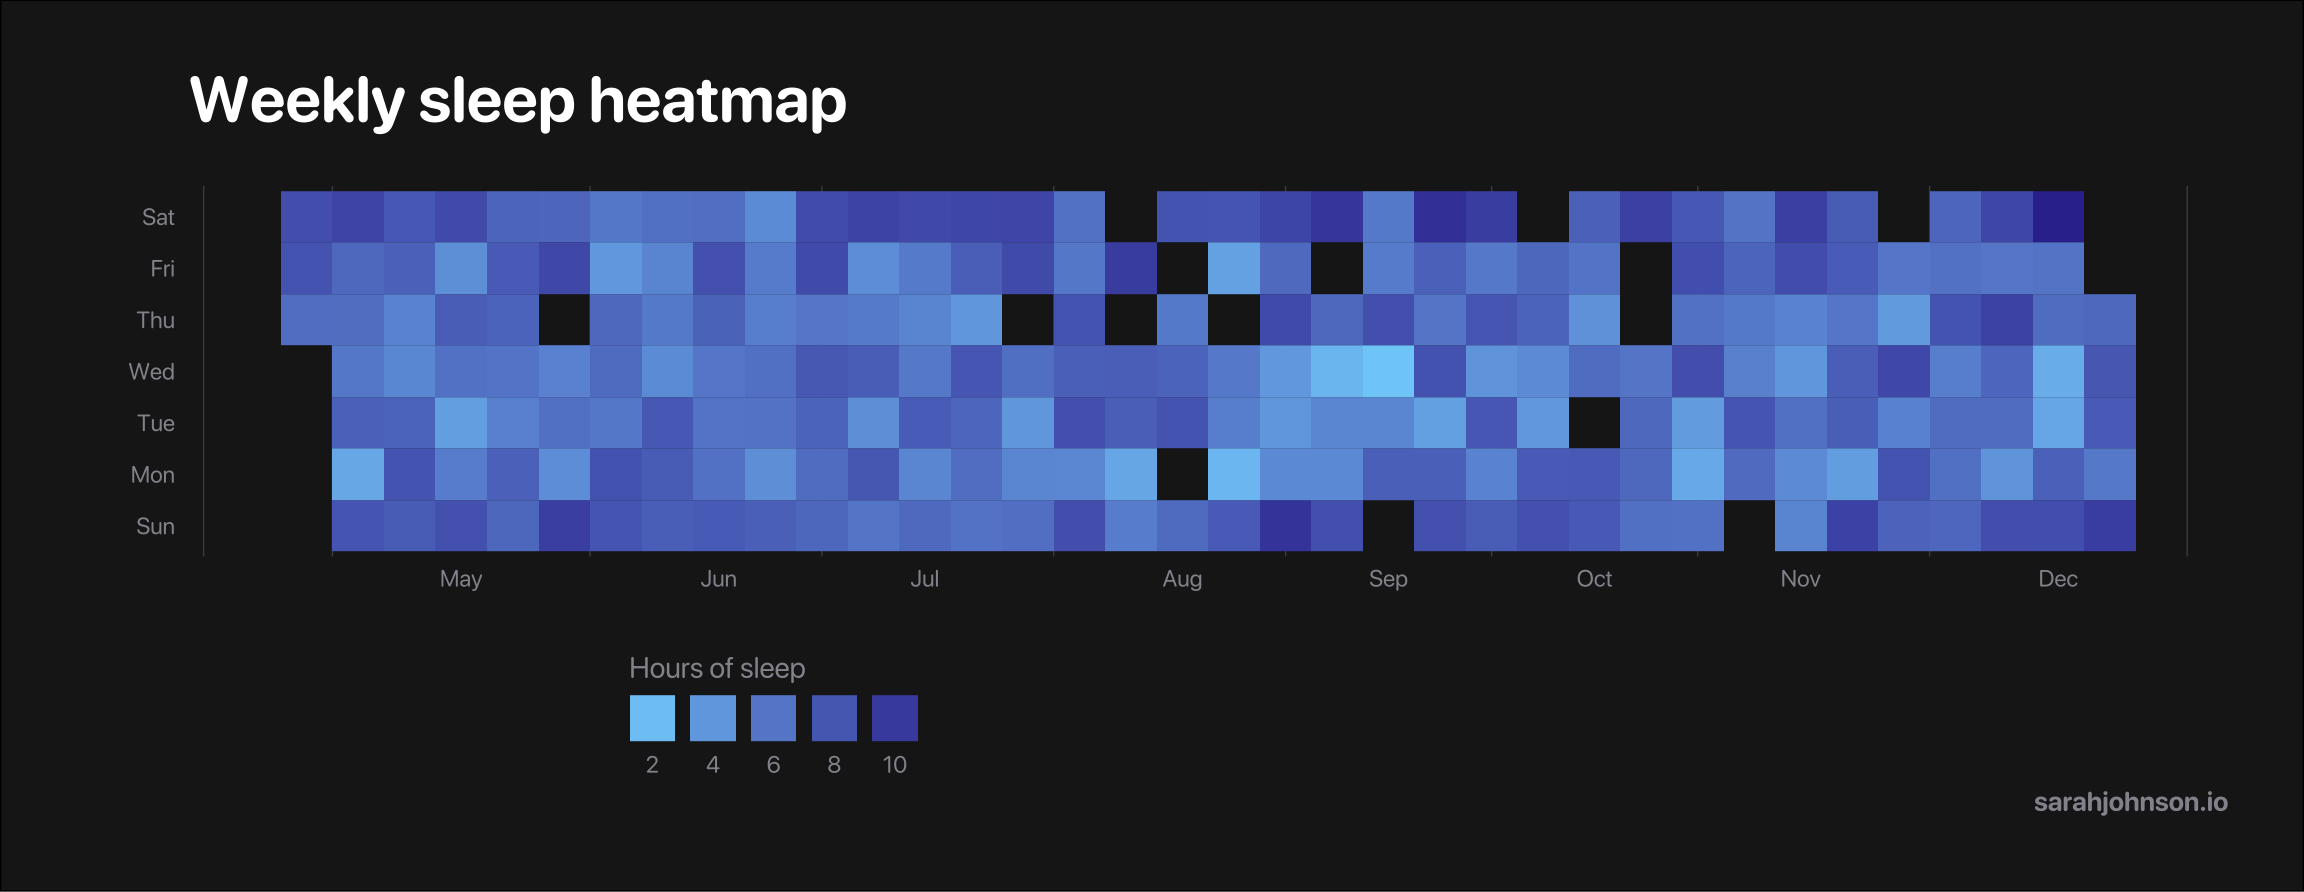
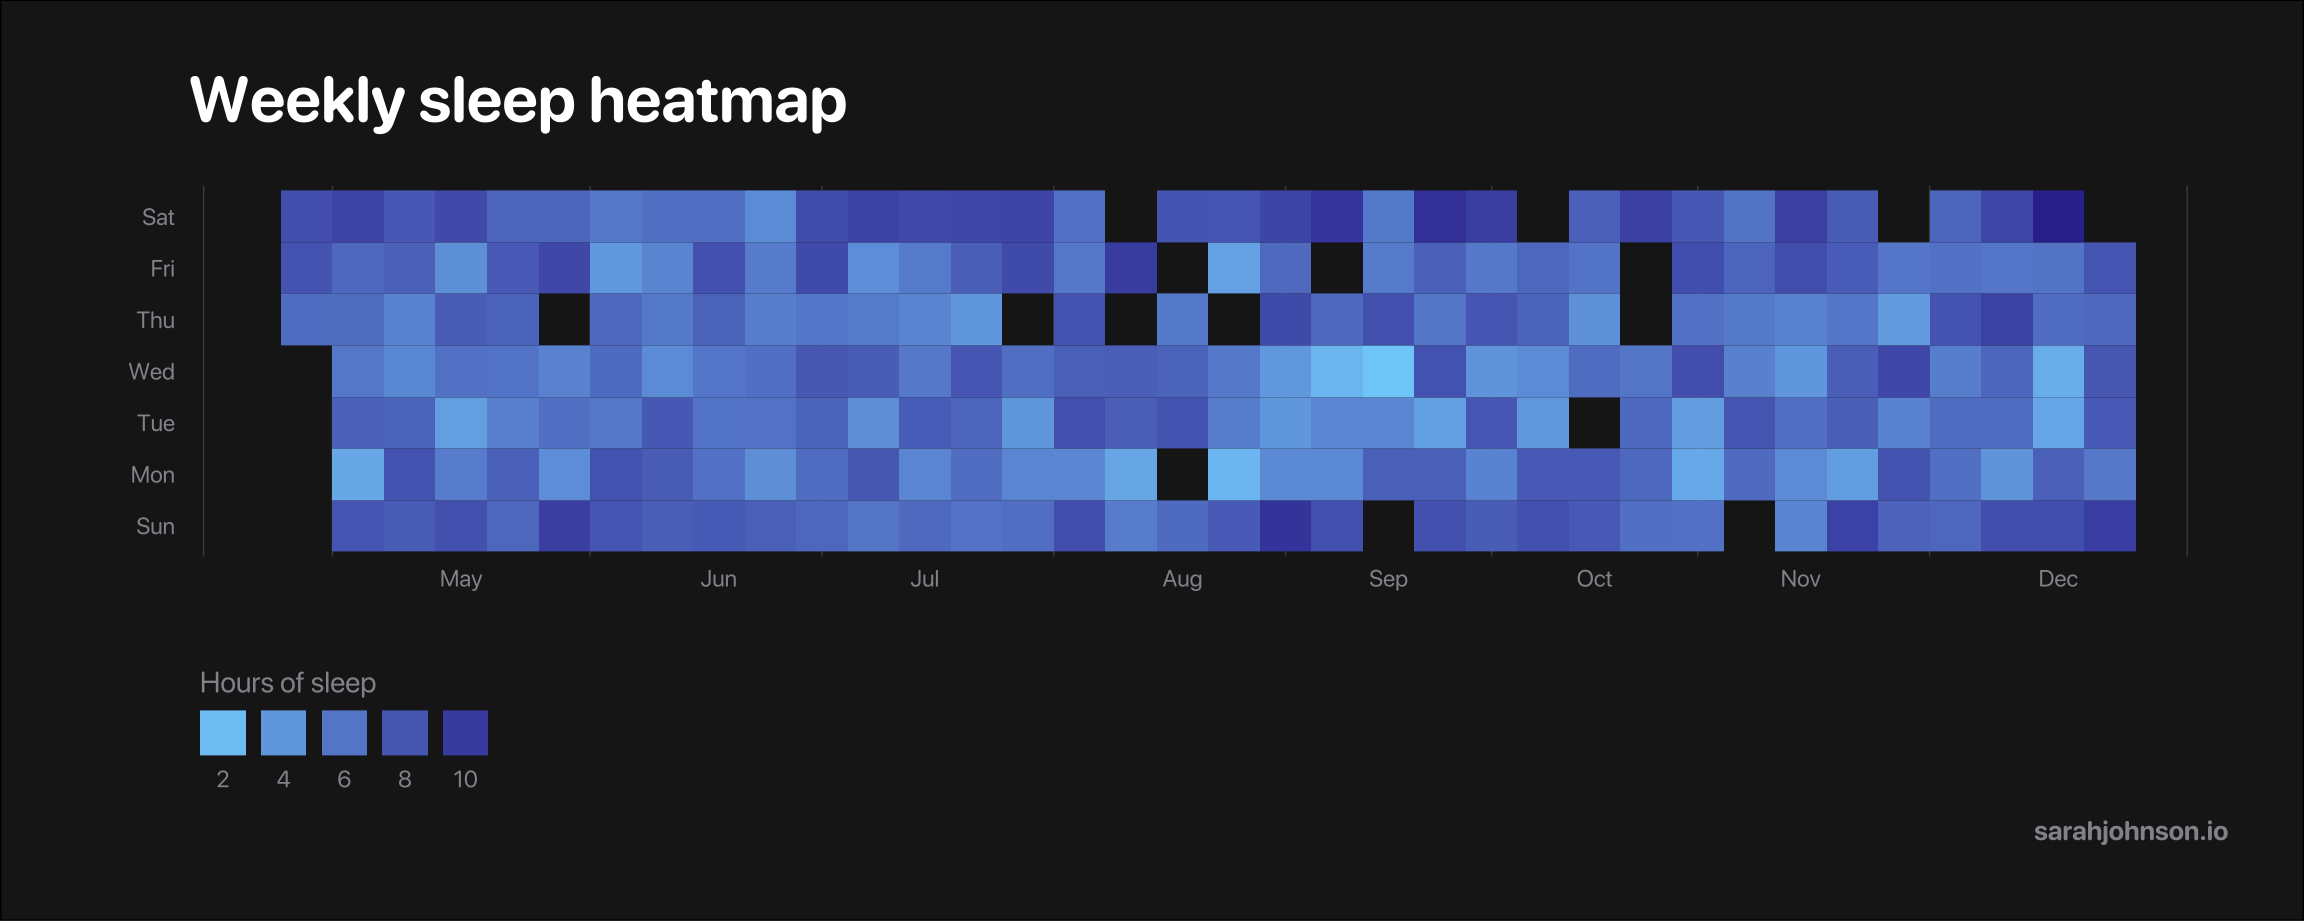
updated data. attempted to use non-watch data but needs more graph adjustments to display clearly.

diff --git a/_site/other/apple-sleep-data.html b/_site/other/apple-sleep-data.html
@@ -229,6 +229,12 @@ pre > code.sourceCode > span > a:first-child::before { text-decoration: underlin
     </div>
   </div>
   
+    <div>
+    <div class="quarto-title-meta-heading">Modified</div>
+    <div class="quarto-title-meta-contents">
+      <p class="date-modified">December 15, 2023</p>
+    </div>
+  </div>
     
   </div>
   
@@ -349,14 +355,14 @@ pre > code.sourceCode > span > a:first-child::before { text-decoration: underlin
 </section>
 <section id="analyze-your-sleep-data" class="level1 page-columns page-full">
 <h1>Analyze your sleep data</h1>
-<p>To access the data again, just use <code>read_parquet()</code>. I also want to filter to only use my watch data.</p>
+<p>To access the data again, just use <code>read_parquet()</code>.</p>
 <div class="cell">
 <div class="sourceCode cell-code" id="cb9"><pre class="sourceCode r code-with-copy"><code class="sourceCode r"><span id="cb9-1"><a href="#cb9-1" aria-hidden="true" tabindex="-1"></a>sleep_data <span class="ot">&lt;-</span> <span class="fu">read_parquet</span>(<span class="fu">paste0</span>(path, <span class="st">"health/sleep.parquet"</span>)) <span class="sc">|&gt;</span> </span>
 <span id="cb9-2"><a href="#cb9-2" aria-hidden="true" tabindex="-1"></a>  <span class="fu">filter</span>(<span class="fu">str_detect</span>(sourceName, <span class="st">"Watch"</span>))</span>
 <span id="cb9-3"><a href="#cb9-3" aria-hidden="true" tabindex="-1"></a></span>
 <span id="cb9-4"><a href="#cb9-4" aria-hidden="true" tabindex="-1"></a><span class="fu">glimpse</span>(sleep_data)</span></code><button title="Copy to Clipboard" class="code-copy-button"><i class="bi"></i></button></pre></div>
 <div class="cell-output cell-output-stdout">
-<pre><code>Rows: 8,833
+<pre><code>Rows: 8,877
 Columns: 6
 $ sourceName    &lt;chr&gt; "Sarah’s Apple&nbsp;Watch", "Sarah’s Apple&nbsp;Watch", "Sarah’s A…
 $ sourceVersion &lt;chr&gt; "9.3.1", "9.3.1", "9.3.1", "9.3.1", "9.3.1", "9.3.1", "9…
@@ -376,29 +382,37 @@ $ value         &lt;chr&gt; "AsleepCore", "InBed", "Awake", "AsleepCore", "Aslee
 <span id="cb11-5"><a href="#cb11-5" aria-hidden="true" tabindex="-1"></a>  <span class="fu">select</span>(<span class="sc">-</span><span class="fu">starts_with</span>(<span class="st">"source"</span>))</span></code><button title="Copy to Clipboard" class="code-copy-button"><i class="bi"></i></button></pre></div>
 </div>
 <p>I also changed the <strong>creationDate</strong> to remove the time for easier future use.</p>
-<p>I’ll be using the following theming options for my plots.</p>
+<p>Click below to see theme options for my plots.</p>
 <div class="cell">
+<details class="code-fold">
+<summary>Code</summary>
 <div class="sourceCode cell-code" id="cb12"><pre class="sourceCode r code-with-copy"><code class="sourceCode r"><span id="cb12-1"><a href="#cb12-1" aria-hidden="true" tabindex="-1"></a><span class="fu">library</span>(ggrounded)</span>
 <span id="cb12-2"><a href="#cb12-2" aria-hidden="true" tabindex="-1"></a></span>
-<span id="cb12-3"><a href="#cb12-3" aria-hidden="true" tabindex="-1"></a>sleep_colors <span class="ot">&lt;-</span> <span class="fu">c</span>(</span>
-<span id="cb12-4"><a href="#cb12-4" aria-hidden="true" tabindex="-1"></a>  <span class="st">"REM"</span> <span class="ot">=</span> <span class="st">"#80CFF9"</span>,</span>
-<span id="cb12-5"><a href="#cb12-5" aria-hidden="true" tabindex="-1"></a>  <span class="st">"Core"</span> <span class="ot">=</span> <span class="st">"#3A81F6"</span>,</span>
-<span id="cb12-6"><a href="#cb12-6" aria-hidden="true" tabindex="-1"></a>  <span class="st">"Deep"</span> <span class="ot">=</span> <span class="st">"#35339C"</span>,</span>
-<span id="cb12-7"><a href="#cb12-7" aria-hidden="true" tabindex="-1"></a>  <span class="st">"Unspecified"</span> <span class="ot">=</span> <span class="st">"#87E3E0"</span></span>
-<span id="cb12-8"><a href="#cb12-8" aria-hidden="true" tabindex="-1"></a>)</span>
-<span id="cb12-9"><a href="#cb12-9" aria-hidden="true" tabindex="-1"></a></span>
-<span id="cb12-10"><a href="#cb12-10" aria-hidden="true" tabindex="-1"></a>sleep_theme <span class="ot">&lt;-</span> <span class="fu">theme</span>(</span>
-<span id="cb12-11"><a href="#cb12-11" aria-hidden="true" tabindex="-1"></a>    <span class="at">plot.margin =</span> <span class="fu">margin</span>(<span class="fl">1.5</span>, <span class="dv">1</span>, <span class="dv">1</span>, <span class="fl">1.25</span>, <span class="st">"cm"</span>),</span>
-<span id="cb12-12"><a href="#cb12-12" aria-hidden="true" tabindex="-1"></a>    <span class="at">plot.background =</span> <span class="fu">element_rect</span>(<span class="at">fill =</span> <span class="st">"#1C1B1D"</span>),</span>
-<span id="cb12-13"><a href="#cb12-13" aria-hidden="true" tabindex="-1"></a>    <span class="at">panel.grid =</span> <span class="fu">element_line</span>(<span class="at">color =</span> <span class="st">"#4B4A4C"</span>),</span>
-<span id="cb12-14"><a href="#cb12-14" aria-hidden="true" tabindex="-1"></a>    <span class="at">text =</span> <span class="fu">element_text</span>(<span class="at">colour =</span> <span class="st">"#94949B"</span>, <span class="at">family =</span> <span class="st">"SF Pro Rounded"</span>),</span>
-<span id="cb12-15"><a href="#cb12-15" aria-hidden="true" tabindex="-1"></a>    <span class="at">axis.title.y =</span> <span class="fu">element_text</span>(<span class="at">vjust =</span> <span class="dv">5</span>),</span>
-<span id="cb12-16"><a href="#cb12-16" aria-hidden="true" tabindex="-1"></a>    <span class="at">axis.text =</span> <span class="fu">element_text</span>(<span class="at">color =</span> <span class="st">"#94949B"</span>),</span>
-<span id="cb12-17"><a href="#cb12-17" aria-hidden="true" tabindex="-1"></a>    <span class="at">plot.title =</span> <span class="fu">element_text</span>(<span class="at">colour =</span> <span class="st">"white"</span>, <span class="at">vjust =</span> <span class="dv">4</span>, <span class="at">size =</span> <span class="dv">24</span>, <span class="at">face =</span> <span class="st">"bold"</span>),</span>
-<span id="cb12-18"><a href="#cb12-18" aria-hidden="true" tabindex="-1"></a>    <span class="at">plot.caption =</span> <span class="fu">element_text</span>(<span class="at">face =</span> <span class="st">"bold"</span>, <span class="at">size =</span> <span class="dv">10</span>)</span>
-<span id="cb12-19"><a href="#cb12-19" aria-hidden="true" tabindex="-1"></a>  )</span></code><button title="Copy to Clipboard" class="code-copy-button"><i class="bi"></i></button></pre></div>
+<span id="cb12-3"><a href="#cb12-3" aria-hidden="true" tabindex="-1"></a><span class="fu">library</span>(showtext)</span>
+<span id="cb12-4"><a href="#cb12-4" aria-hidden="true" tabindex="-1"></a><span class="fu">font_add</span>(<span class="at">family =</span> <span class="st">"SF Pro"</span>, <span class="at">regular =</span> <span class="st">"SF-Pro.ttf"</span>, <span class="at">bold =</span> <span class="st">"SF-Pro.ttf"</span>)</span>
+<span id="cb12-5"><a href="#cb12-5" aria-hidden="true" tabindex="-1"></a><span class="fu">font_add</span>(<span class="at">family =</span> <span class="st">"SF Pro Rounded"</span>, <span class="at">regular =</span> <span class="st">"SF-Pro-Rounded-Regular.otf"</span>, <span class="at">bold =</span> <span class="st">"SF-Pro-Rounded-Bold.otf"</span>)</span>
+<span id="cb12-6"><a href="#cb12-6" aria-hidden="true" tabindex="-1"></a><span class="fu">showtext_auto</span>()</span>
+<span id="cb12-7"><a href="#cb12-7" aria-hidden="true" tabindex="-1"></a></span>
+<span id="cb12-8"><a href="#cb12-8" aria-hidden="true" tabindex="-1"></a>sleep_colors <span class="ot">&lt;-</span> <span class="fu">c</span>(</span>
+<span id="cb12-9"><a href="#cb12-9" aria-hidden="true" tabindex="-1"></a>  <span class="st">"REM"</span> <span class="ot">=</span> <span class="st">"#80CFF9"</span>,</span>
+<span id="cb12-10"><a href="#cb12-10" aria-hidden="true" tabindex="-1"></a>  <span class="st">"Core"</span> <span class="ot">=</span> <span class="st">"#3A81F6"</span>,</span>
+<span id="cb12-11"><a href="#cb12-11" aria-hidden="true" tabindex="-1"></a>  <span class="st">"Deep"</span> <span class="ot">=</span> <span class="st">"#35339C"</span>,</span>
+<span id="cb12-12"><a href="#cb12-12" aria-hidden="true" tabindex="-1"></a>  <span class="st">"Unspecified"</span> <span class="ot">=</span> <span class="st">"#87E3E0"</span></span>
+<span id="cb12-13"><a href="#cb12-13" aria-hidden="true" tabindex="-1"></a>)</span>
+<span id="cb12-14"><a href="#cb12-14" aria-hidden="true" tabindex="-1"></a><span class="co"># colors from Apple Health app</span></span>
+<span id="cb12-15"><a href="#cb12-15" aria-hidden="true" tabindex="-1"></a></span>
+<span id="cb12-16"><a href="#cb12-16" aria-hidden="true" tabindex="-1"></a>sleep_theme <span class="ot">&lt;-</span> <span class="fu">theme</span>(</span>
+<span id="cb12-17"><a href="#cb12-17" aria-hidden="true" tabindex="-1"></a>    <span class="at">plot.margin =</span> <span class="fu">margin</span>(<span class="fl">1.5</span>, <span class="dv">1</span>, <span class="dv">1</span>, <span class="fl">1.25</span>, <span class="st">"cm"</span>),</span>
+<span id="cb12-18"><a href="#cb12-18" aria-hidden="true" tabindex="-1"></a>    <span class="at">plot.background =</span> <span class="fu">element_rect</span>(<span class="at">fill =</span> <span class="st">"#1C1B1D"</span>),</span>
+<span id="cb12-19"><a href="#cb12-19" aria-hidden="true" tabindex="-1"></a>    <span class="at">panel.grid =</span> <span class="fu">element_line</span>(<span class="at">color =</span> <span class="st">"#4B4A4C"</span>),</span>
+<span id="cb12-20"><a href="#cb12-20" aria-hidden="true" tabindex="-1"></a>    <span class="at">text =</span> <span class="fu">element_text</span>(<span class="at">colour =</span> <span class="st">"#94949B"</span>, <span class="at">family =</span> <span class="st">"SF Pro Rounded"</span>),</span>
+<span id="cb12-21"><a href="#cb12-21" aria-hidden="true" tabindex="-1"></a>    <span class="at">axis.title.y =</span> <span class="fu">element_text</span>(<span class="at">vjust =</span> <span class="dv">5</span>),</span>
+<span id="cb12-22"><a href="#cb12-22" aria-hidden="true" tabindex="-1"></a>    <span class="at">axis.text =</span> <span class="fu">element_text</span>(<span class="at">color =</span> <span class="st">"#94949B"</span>),</span>
+<span id="cb12-23"><a href="#cb12-23" aria-hidden="true" tabindex="-1"></a>    <span class="at">plot.title =</span> <span class="fu">element_text</span>(<span class="at">colour =</span> <span class="st">"white"</span>, <span class="at">vjust =</span> <span class="dv">4</span>, <span class="at">size =</span> <span class="dv">24</span>, <span class="at">face =</span> <span class="st">"bold"</span>),</span>
+<span id="cb12-24"><a href="#cb12-24" aria-hidden="true" tabindex="-1"></a>    <span class="at">plot.caption =</span> <span class="fu">element_text</span>(<span class="at">face =</span> <span class="st">"bold"</span>, <span class="at">size =</span> <span class="dv">10</span>)</span>
+<span id="cb12-25"><a href="#cb12-25" aria-hidden="true" tabindex="-1"></a>  )</span></code><button title="Copy to Clipboard" class="code-copy-button"><i class="bi"></i></button></pre></div>
+</details>
 </div>
-<p>The colors for the sleep stages were pulled from Apple’s Health data app.</p>
 <section id="sleep-by-day-of-week" class="level2">
 <h2 class="anchored" data-anchor-id="sleep-by-day-of-week">Sleep by day of week</h2>
 <p>How much sleep do I average for each night of the week?</p>
@@ -534,7 +548,7 @@ $ value         &lt;chr&gt; "AsleepCore", "InBed", "Awake", "AsleepCore", "Aslee
 <span id="cb17-2"><a href="#cb17-2" aria-hidden="true" tabindex="-1"></a>  <span class="fu">mutate</span>(<span class="at">start_time =</span> hms<span class="sc">::</span><span class="fu">as_hms</span>(startDate),</span>
 <span id="cb17-3"><a href="#cb17-3" aria-hidden="true" tabindex="-1"></a>         <span class="at">end_time =</span> hms<span class="sc">::</span><span class="fu">as_hms</span>(endDate)) <span class="sc">|&gt;</span></span>
 <span id="cb17-4"><a href="#cb17-4" aria-hidden="true" tabindex="-1"></a>  <span class="fu">mutate</span>(<span class="fu">across</span>(<span class="fu">ends_with</span>(<span class="st">"_time"</span>), <span class="sc">~</span> <span class="fu">ifelse</span>(</span>
-<span id="cb17-5"><a href="#cb17-5" aria-hidden="true" tabindex="-1"></a>    <span class="fu">as.numeric</span>(<span class="fu">hour</span>(.x)) <span class="sc">&gt;</span> <span class="dv">12</span>,</span>
+<span id="cb17-5"><a href="#cb17-5" aria-hidden="true" tabindex="-1"></a>    <span class="fu">as.numeric</span>(<span class="fu">hour</span>(.x)) <span class="sc">&gt;</span> <span class="dv">18</span>,</span>
 <span id="cb17-6"><a href="#cb17-6" aria-hidden="true" tabindex="-1"></a>    .x <span class="sc">-</span> hms<span class="sc">::</span><span class="fu">hms</span>(<span class="dv">0</span>, <span class="dv">0</span>, <span class="dv">24</span>),</span>
 <span id="cb17-7"><a href="#cb17-7" aria-hidden="true" tabindex="-1"></a>    .x</span>
 <span id="cb17-8"><a href="#cb17-8" aria-hidden="true" tabindex="-1"></a>  ) <span class="sc">|&gt;</span> hms<span class="sc">::</span><span class="fu">as_hms</span>()))</span></code><button title="Copy to Clipboard" class="code-copy-button"><i class="bi"></i></button></pre></div>

diff --git a/_site/r.html b/_site/r.html
@@ -221,7 +221,7 @@ ul.task-list li input[type="checkbox"] {
 <h2 class="anchored" data-anchor-id="health">Health</h2>
 <div id="listing-other" class="quarto-listing quarto-listing-container-grid">
 <div class="list grid quarto-listing-cols-3">
-<div class="g-col-1" data-index="0" data-listing-date-sort="1702533600000" data-listing-file-modified-sort="1702615566158" data-listing-date-modified-sort="NaN" data-listing-reading-time-sort="20" data-listing-word-count-sort="3865">
+<div class="g-col-1" data-index="0" data-listing-date-sort="1702533600000" data-listing-file-modified-sort="1702664218522" data-listing-date-modified-sort="NaN" data-listing-reading-time-sort="20" data-listing-word-count-sort="3872">
 <a href="./other/apple-sleep-data.html" class="quarto-grid-link">
 <div class="quarto-grid-item card h-100 card-left">
 <p class="card-img-top">
